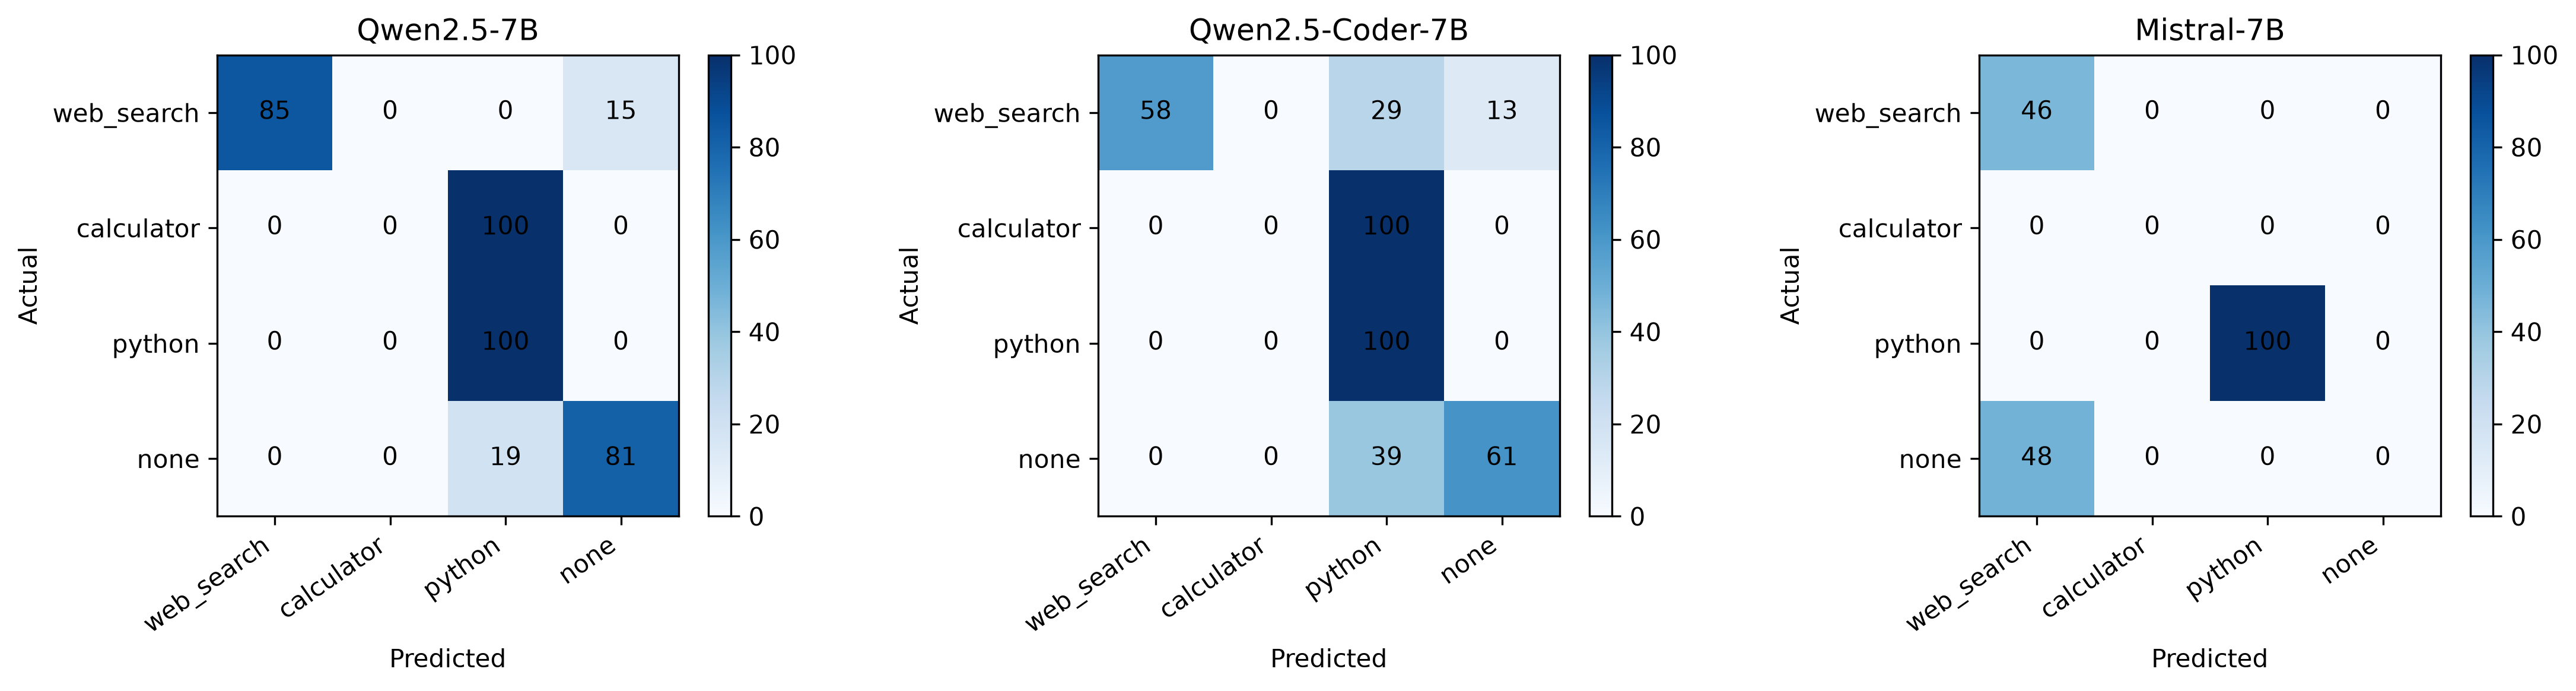
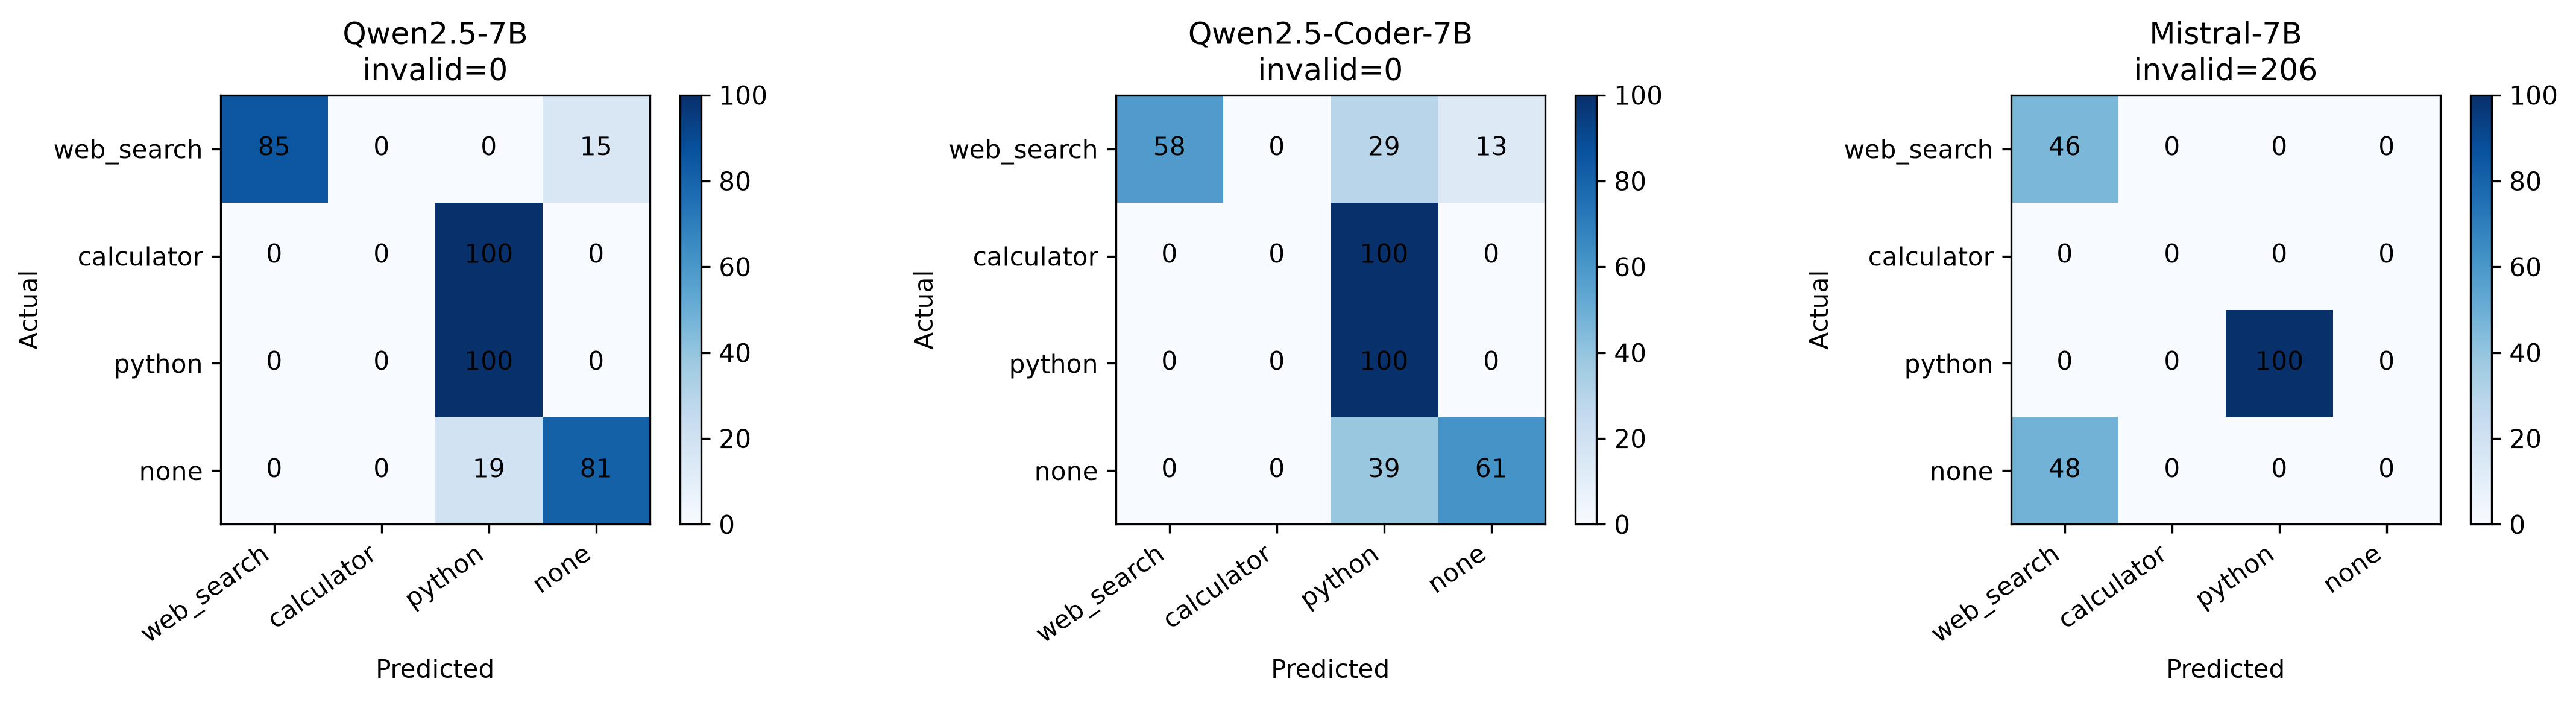
Clarify local results and pending hardware tasks

diff --git a/scripts/28_make_local_report.py b/scripts/28_make_local_report.py
@@ -99,6 +99,7 @@ def write_model_table(models: list[dict], tables: Path) -> list[dict]:
             "model": model["name"],
             "lexical_accuracy": behavior["accuracy"],
             "lexical_macro_f1": behavior["macro_f1"],
+            "lexical_invalid_outputs": behavior["invalid_outputs"],
             "calculator_recall": behavior["per_label"]["calculator"]["recall"],
             "python_recall": behavior["per_label"]["python"]["recall"],
             "calculator_to_python": behavior["confusion_matrix"]["calculator"][
@@ -201,7 +202,8 @@ def plot_confusions(models: list[dict], figures: Path, plt) -> None:
         for row in range(4):
             for column in range(4):
                 axis.text(column, row, str(matrix[row, column]), ha="center", va="center")
-        axis.set_title(model["name"])
+        invalid = metrics["invalid_outputs"]
+        axis.set_title(f"{model['name']}\ninvalid={invalid}")
         axis.set_xticks(range(4), LABELS, rotation=35, ha="right")
         axis.set_yticks(range(4), LABELS)
         axis.set_xlabel("Predicted")

diff --git a/RESULTS_INDEX.md b/RESULTS_INDEX.md
@@ -1,0 +1,61 @@
+# Results Index
+
+Last updated: 2026-06-16
+
+This file is the quick map for inspecting the current workspace and GitHub
+state. Use `PENDING_TASKS.md` as the authoritative checklist and
+`RESULTS_LEDGER.md` as the authoritative evidence ledger.
+
+## Current Status
+
+| Area | Status | Hardware used |
+|---|---|---|
+| Qwen2.5-7B primary analysis | Complete for local 4-bit evidence | RTX 3060 12 GB |
+| Qwen2.5-Coder-7B local replication | Complete | RTX 3060 12 GB |
+| Mistral-7B local replication | Complete for behavior, probes, and component ablations | RTX 3060 12 GB |
+| Local report tables and figures | Complete and refreshed for all three local models | CPU/local |
+| Full-precision 7B replication | Pending | Large GPU, 24 GB minimum |
+| Qwen2.5-14B replication | Pending | Large GPU, 24 GB minimum; 48 GB preferred |
+| Final paper writing and claim audit | Pending | CPU/local after result scope is frozen |
+
+## Where To Inspect Results
+
+| What to inspect | Path |
+|---|---|
+| Project checklist and hardware split | `PENDING_TASKS.md` |
+| Completed observations and limitations | `RESULTS_LEDGER.md` |
+| Large-GPU handoff commands | `GPU_QUICKSTART.md` |
+| Local report summary | `paper/local_report.summary.json` |
+| Cross-model behavior/probe/patching table | `paper/tables/model_comparison.csv` |
+| Cross-model component ablation table | `paper/tables/component_ablation_comparison.csv` |
+| Statistical tests table | `paper/tables/statistical_tests.csv` |
+| Paper figures | `paper/figures/` |
+| Human benchmark audit | `paper/benchmark_audit.csv` |
+
+## Figures Included
+
+All figures are saved as PNG for quick viewing and PDF for paper use.
+
+| Figure | Scope |
+|---|---|
+| `behavior_confusion_matrices` | Lexical-control behavior for Qwen2.5-7B, Qwen2.5-Coder-7B, and Mistral-7B |
+| `layerwise_probe_comparison` | Residual-stream and MLP probe curves for all three local models |
+| `controlled_patching_comparison` | Controlled residual patching for models with usable calculator-to-Python target errors |
+| `component_ablation_comparison` | Neuron/head ablations for all three local models |
+| `multiseed_replication` | Qwen2.5-7B multi-seed patching and L26H4 checks |
+| `steering_dose_response` | Qwen2.5-7B calculator-direction steering controls |
+| `l26h4_specificity` | Qwen2.5-7B L26H4 validation/challenge specificity |
+| `l26h4_attention_tokens` | Qwen2.5-7B L26H4 attention-token summary |
+
+## Important Interpretation Notes
+
+- Mistral controlled calculator-to-Python patching is marked not available
+  because its OOD run produced no calculator-to-Python target errors.
+- Mistral still contributes useful cross-family evidence through component
+  ablations: top calculator heads strongly reduce the calculator margin when
+  ablated.
+- All local model runs used 4-bit loading. Full-precision confirmation remains
+  a large-GPU task.
+- Generated raw outputs are intentionally excluded from Git where they are too
+  large or machine-specific. The tracked report tables, figures, scripts, and
+  ledgers are the GitHub inspection surface.

diff --git a/README.md b/README.md
@@ -1,6 +1,7 @@
 # Tool Circuit Interpretability
 
-This repository implements the first runnable stages of ToolUseCircuitBench:
+This repository implements ToolUseCircuitBench experiments for studying
+tool-selection circuits in instruction-tuned language models:
 
 1. Build a controlled benchmark for `web_search`, `calculator`, `python`, and
    `none`.
@@ -8,15 +9,29 @@ This repository implements the first runnable stages of ToolUseCircuitBench:
 3. Extract residual-stream and MLP activations from Hugging Face causal LMs.
 4. Train layer-wise linear probes and compute tool directions.
 
-The causal experiments from the research plan (activation patching, neuron
-ablation, and head ablation) should be run after selecting a model that has
-strong baseline tool-selection accuracy.
+The current GitHub state includes the completed local RTX 3060 analysis for
+three 7B-class models: `Qwen2.5-7B`, `Qwen2.5-Coder-7B`, and `Mistral-7B`.
+Remaining large-model and full-precision work is separated in the task tracker.
 
-The complete staged execution plan is in [EXPERIMENTS.md](EXPERIMENTS.md).
-Current progress and remaining checkpoints are tracked in
-[PENDING_TASKS.md](PENDING_TASKS.md).
-Instructions for cloning onto a larger GPU machine are in
-[GPU_QUICKSTART.md](GPU_QUICKSTART.md).
+## Inspect Current Results
+
+Start here:
+
+| Need | File or folder |
+|---|---|
+| Result map and inspection guide | [RESULTS_INDEX.md](RESULTS_INDEX.md) |
+| Completed observations and limitations | [RESULTS_LEDGER.md](RESULTS_LEDGER.md) |
+| Pending tasks with required hardware | [PENDING_TASKS.md](PENDING_TASKS.md) |
+| Large-GPU handoff commands | [GPU_QUICKSTART.md](GPU_QUICKSTART.md) |
+| Local paper figures | [paper/figures/](paper/figures/) |
+| Local paper tables | [paper/tables/](paper/tables/) |
+| Local report summary | [paper/local_report.summary.json](paper/local_report.summary.json) |
+| Complete staged execution plan | [EXPERIMENTS.md](EXPERIMENTS.md) |
+
+The local report currently includes all three local models. Mistral controlled
+calculator-to-Python patching is recorded as not available because there were
+no calculator-to-Python target errors in its OOD run; its component ablations
+are still included in the cross-model report.
 
 ## Quick start with local Ollama Qwen
 

diff --git a/PENDING_TASKS.md b/PENDING_TASKS.md
@@ -1,6 +1,6 @@
 # Paper Checkpoint
 
-Last updated: 2026-06-15
+Last updated: 2026-06-16
 
 Use this file as the single progress tracker. Check an item only after its
 expected output exists and has been inspected.
@@ -83,6 +83,8 @@ expected output exists and has been inspected.
     cross-family causal evidence, while neuron ablation increases the
     calculator margin rather than suppressing it.
 
+Status: all RTX 3060-compatible cross-model replication items are complete.
+
 ## Pending: Large-GPU Replication
 
 - [ ] **LARGE GPU** Run Qwen2.5-14B behavioral evaluation and reduced pipeline.
@@ -100,7 +102,7 @@ expected output exists and has been inspected.
 
 - [x] **LOCAL / CPU** Aggregate completed multi-seed experiments.
 - [x] **LOCAL / CPU** Apply multiple-comparison corrections where relevant.
-- [ ] **LOCAL / CPU** Report bootstrap confidence intervals and paired tests
+- [x] **LOCAL / CPU** Report bootstrap confidence intervals and paired tests
   consistently.
 - [x] **LOCAL / CPU** Produce behavioral confusion matrices.
 - [x] **LOCAL / CPU** Produce layer-wise probe figures.
@@ -108,8 +110,10 @@ expected output exists and has been inspected.
 - [x] **LOCAL / CPU** Produce steering dose-response curves.
 - [x] **LOCAL / CPU** Produce L26H4 necessity and specificity figures.
 - [x] **LOCAL / CPU** Produce attention-pattern visualization.
-- [ ] **LARGE GPU / ANALYSIS** Produce cross-model comparison tables after all
-  required model runs finish.
+- [x] **LOCAL / CPU** Produce local cross-model comparison tables for
+  Qwen2.5-7B, Qwen2.5-Coder-7B, and Mistral-7B.
+- [ ] **LARGE GPU / ANALYSIS** Extend cross-model comparison tables after
+  full-precision and 14B runs finish.
 - [x] **LOCAL / CPU** Copy completed figures into `paper/figures/`.
 
 ## Pending: Local Paper Work